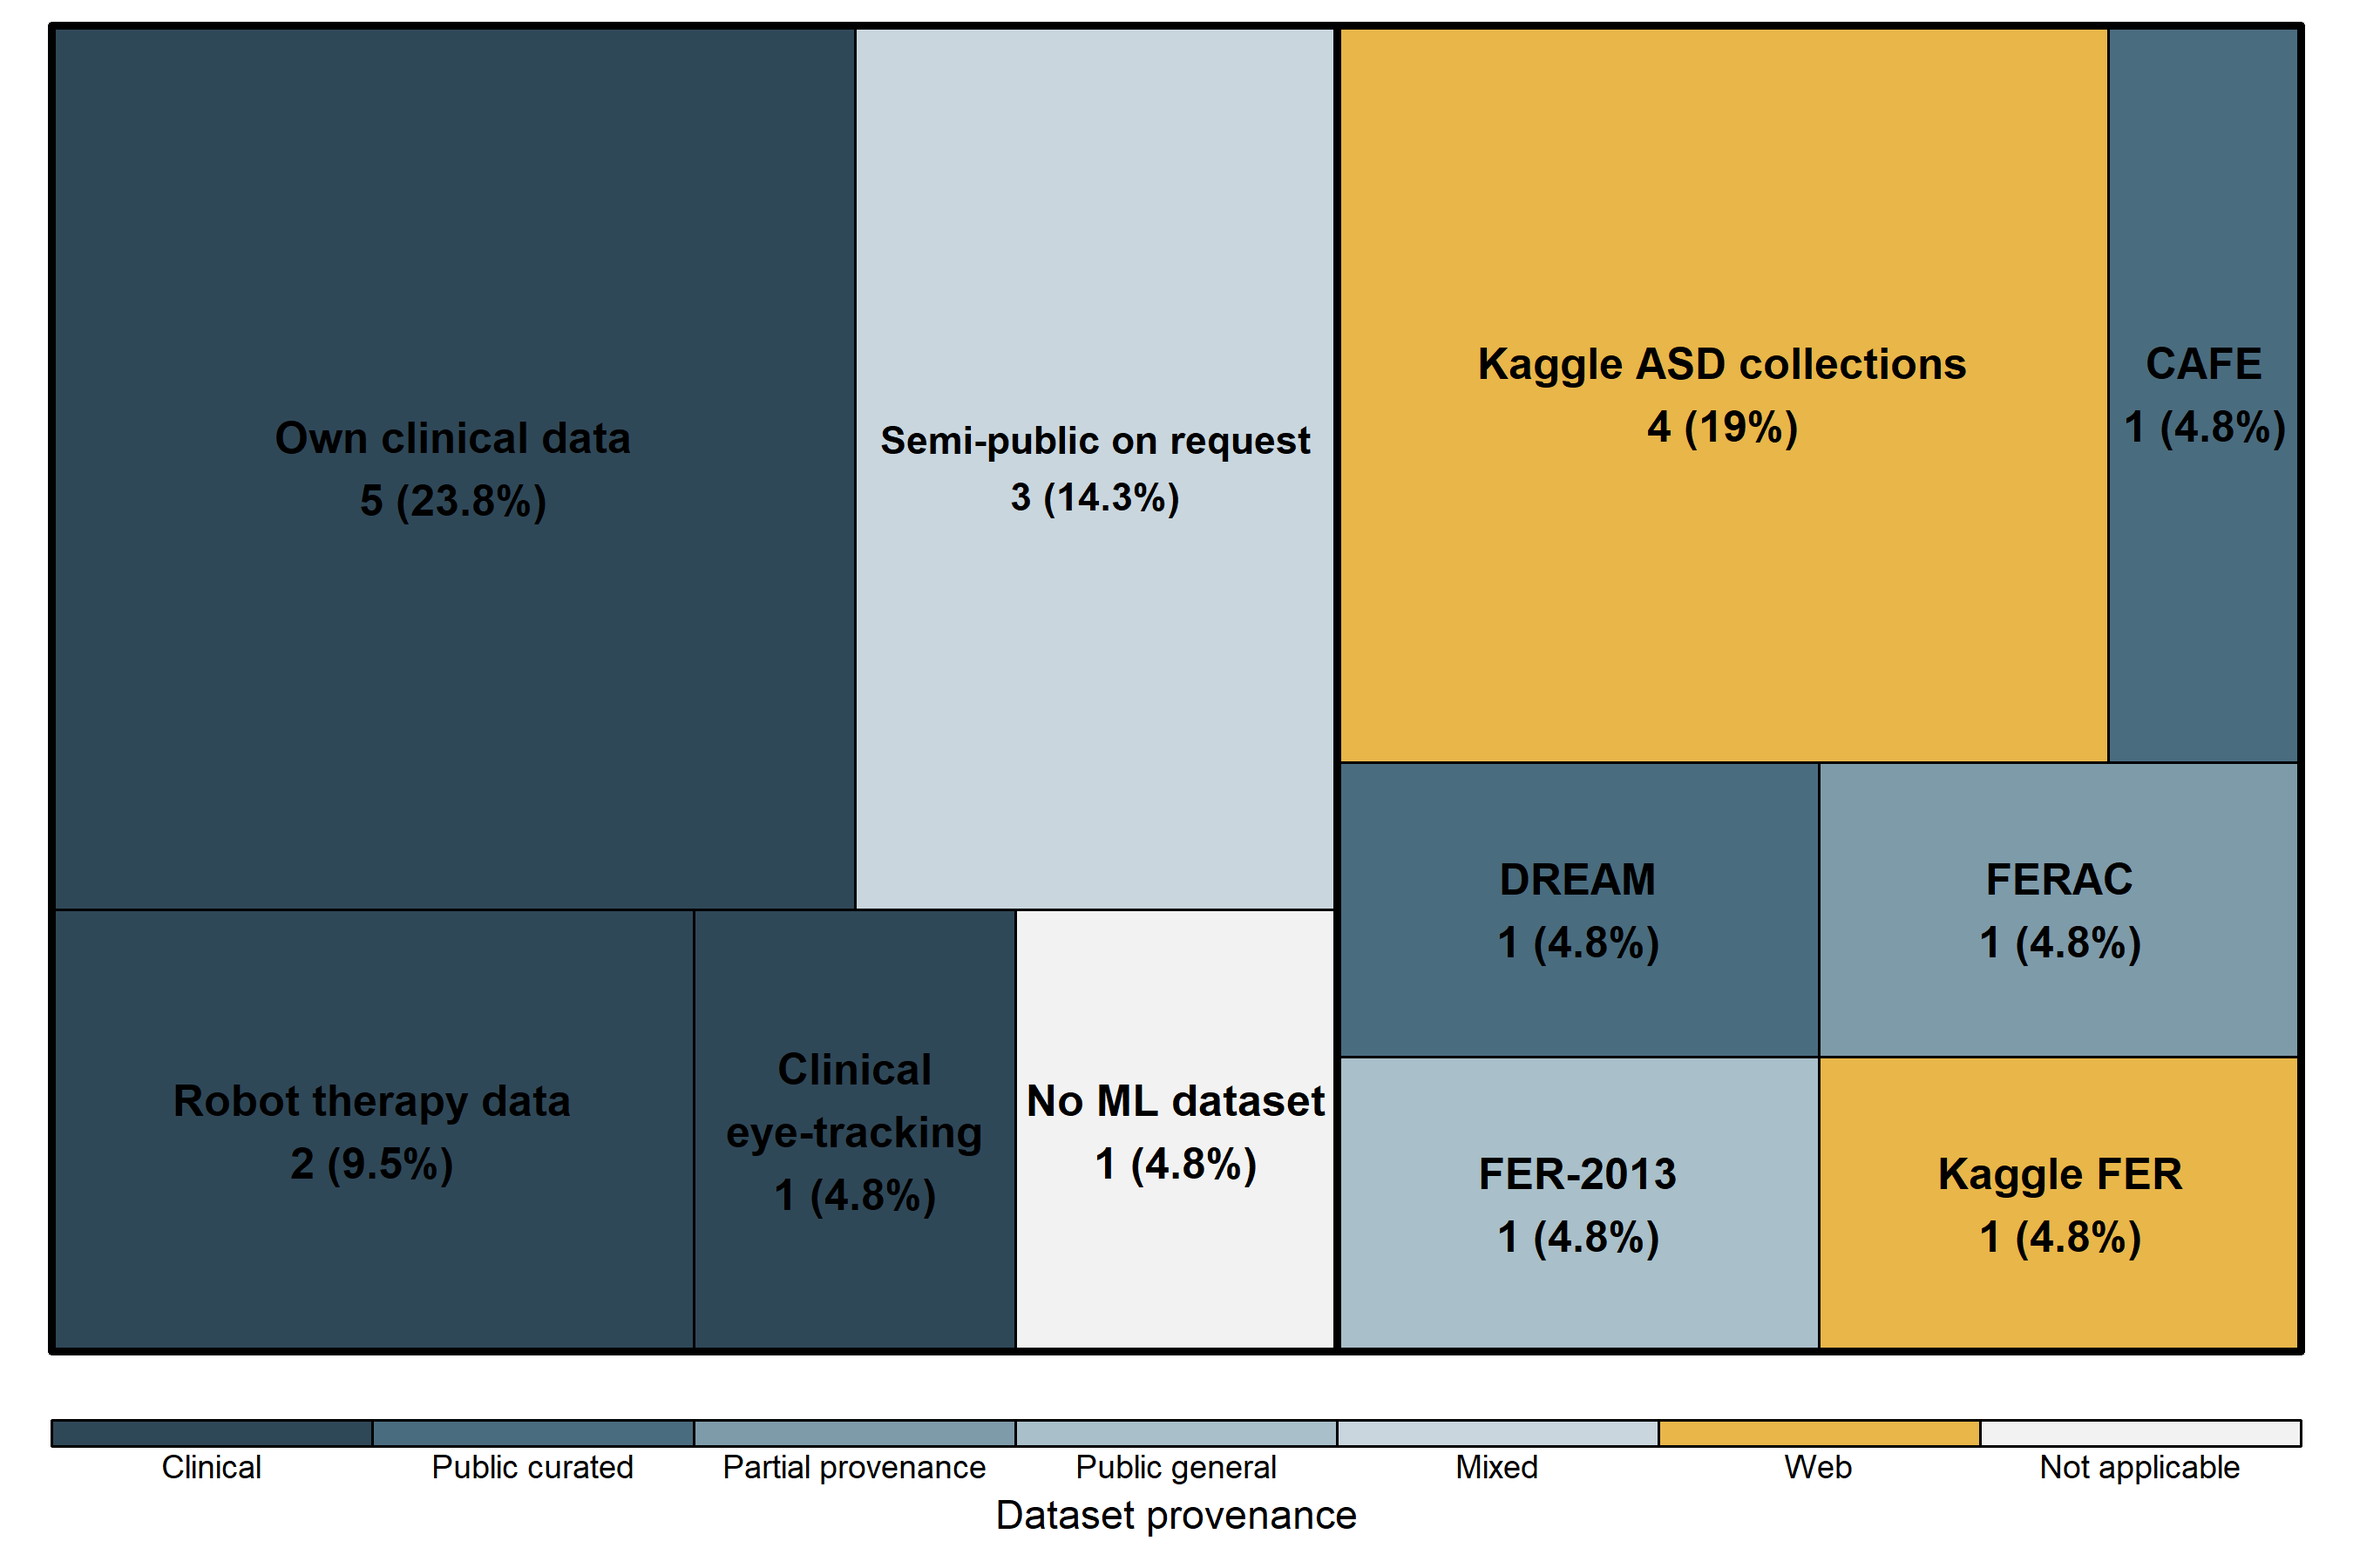
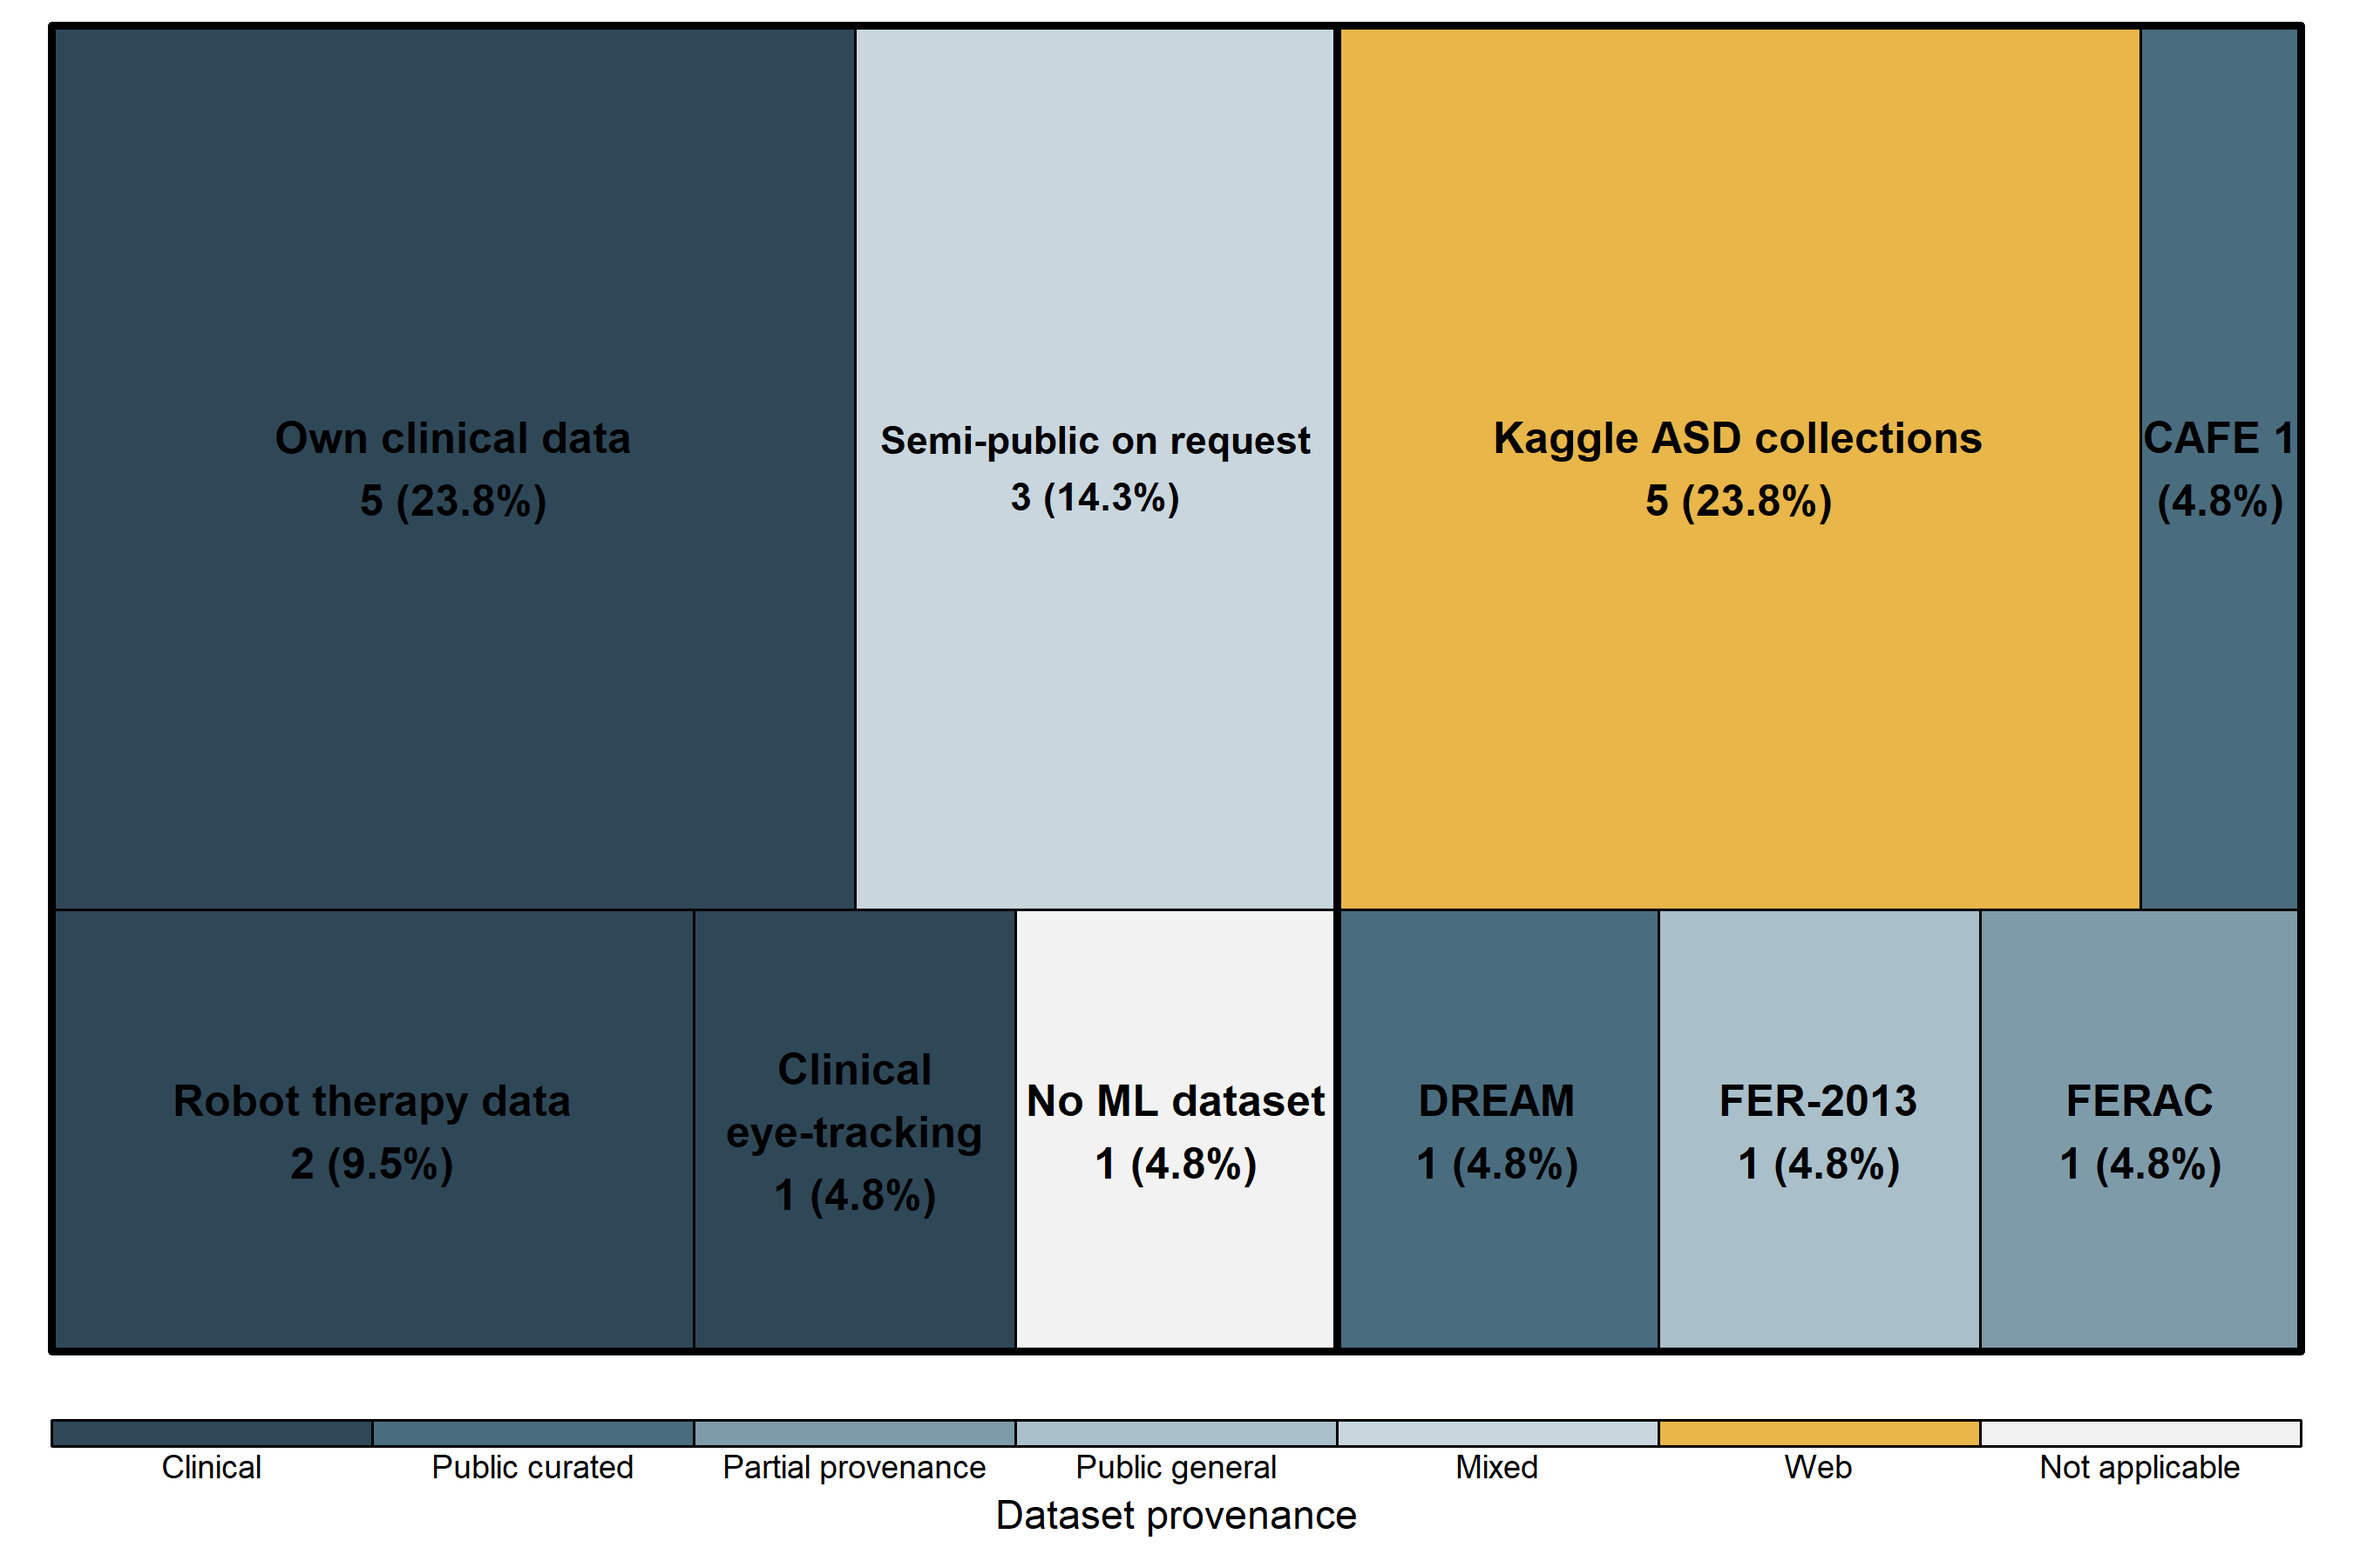
fix: verify S4 validation column, merge Kaggle FER into Kaggle ASD in fig_6

Changed region(s): [[0.56, 0.0, 0.9956, 0.8711], [0.6222, 0.2178, 0.84, 0.3422]]

diff --git a/CHANGELOG.md b/CHANGELOG.md
@@ -65,6 +65,16 @@ Versions before V3.3 lack formal git tags; boundaries are estimated from commit 
   97.36% and F1 95.56% with saliency maps); notes added on Johnson et al. (2025) (67.8% measured on
   AffectNet, seven classes) and Radočaj and Martinović (2025) (four FERAC classes;
   stated 80/20 stratified split versus inconsistent reported image counts).
+- S4 Section C.2 validation column checked against the full texts: Shaik et al. (2025)
+  No to Yes (stratified 5-fold cross-validation), Sariyanidi et al. (2025) N/A to Yes
+  (leave-one-out by participant with nested cross-validation), Rudovic et al. (2018) N/A
+  to No (per-child 40/20/40 split); Hassan et al. (2025) validation set to ND because
+  the full text could not be accessed (note g); new note p.
+- Figure 6: the five web-sourced studies (Shaik, Alam, Aljbori, Vedantham and Hosney)
+  all train their main model on Kaggle autism collections, so "Kaggle ASD collections"
+  rises from 4 to 5 and the "Kaggle FER" tile is removed; Vedantham et al. (2025) uses a
+  generic Kaggle facial expression dataset only as auxiliary data. Totals unchanged
+  (9 public, 12 private).
 - PRISMA flow diagram (`prisma/PRISMA_2020.docx` and `.jpg`): eligible corpus 21,
   contextual evidence 9 with the CI(3) reason.
 - Figures 2, 3, 4, 6, 7 and 8 regenerated for N=21 (Figure 2: n=20 appraised, domain
@@ -80,7 +90,8 @@ Versions before V3.3 lack formal git tags; boundaries are estimated from commit 
 
 
 ### Commits
-- `PENDING` 2026-11-06 fix: move Hassan to D4 (ASD level task), correct CK+ age range in S3, web accuracy range in README, fig_8 y-axis
+- `PENDING` 2026-11-06 fix: verify S4 validation column, merge Kaggle FER into Kaggle ASD in fig_6
+- `1e75a8b` 2026-11-06 fix: move Hassan to D4 (ASD level task), correct CK+ age range in S3, web accuracy range in README, fig_8 y-axis
 - `e3bd31c` 2026-11-06 fix: reclassify corpus to N=21, update S1-S4, regenerate figures 2-8, update PRISMA, README and CHANGELOG
 ---
 
